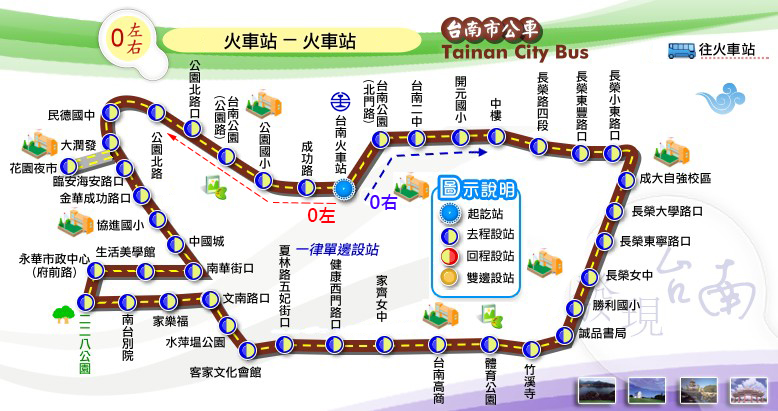
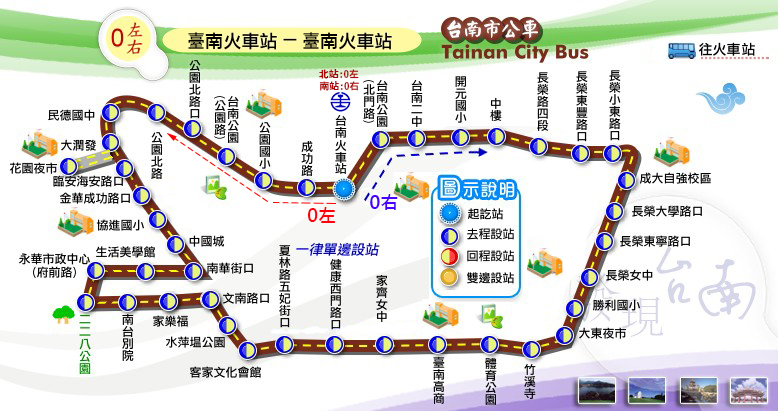
Update the stop name in No.0 and 5

diff --git a/route/fare_and_time/city_bus_0.js b/route/fare_and_time/city_bus_0.js
@@ -1,19 +1,19 @@
 // format = [time at the start stop] or
 // [time, other] or
 // [time, start_stop, end_stop, other]
-city_bus_0_main_stop_name = ["臺南<br />火車站","臺南公園<br />(公園路)","民德國中","花園夜市","永華市政<br />中心(府前路)","水萍塭<br />公園","體育公園","誠品書局","長榮、<br />大學路口","臺南<br />火車站"];
+city_bus_0_main_stop_name = ["臺南<br />火車站","臺南公園<br />(公園路)","民德國中","花園夜市","永華市政<br />中心(府前路)","水萍塭<br />公園","體育公園","大東夜市","長榮、<br />大學路口","臺南<br />火車站"];
 city_bus_0_interval_stop = [
 ["臺南火車站","成功路","公園國小","臺南公園(公園路)","公園北路口","公園北路","民德國中",
 "大潤發","花園夜市","臨安海安路口","金華成功路口","協進國小(金華路)","中國城(金華路)",
 "南華街口","生活美學館","永華市政中心(府前路)","二二八公園","南台別院","家樂福","文南路口",
 "水萍塭公園","客家文化會館","夏林路五妃街口","健康西門路口","家齊女中","台南高商","體育公園",
-"竹溪寺(健康路)","誠品書局","勝利國小","長榮女中","長榮東寧路口","長榮大學路口","成大自強校區",
+"竹溪寺(健康路)","大東夜市","勝利國小","長榮女中","長榮東寧路口","長榮大學路口","成大自強校區",
 "長榮小東路口","長榮東豐路口","長榮路四段","中樓","開元國小","臺南二中","臺南公園(北門路)","臺南火車站"]
 ];
 city_bus_0_stop_time_consume = [0,2,4,5,6,7,8,9,10,11,12,14,15,17,19,20,20,21,22,22,23,24,24,25,26,27,28,31,33,35,36,37,38,40,41,42,43,45,46,47,48,50]; // unreliable
 city_bus_0_main_stop_time_consume = [0, 5, 8, 10, 20, 23, 28, 33, 38, 50];
 //city_bus_0r_main_stop_time_consume = [0, 5, 8, 10, 30, 33, 38, 43, 48, 60];
-city_bus_0_important_stop = [0, 3, 9]; // 臺南火車站, 花園夜市, 臺南火車站
+city_bus_0_important_stop = [0, 3, 7, 9]; // 臺南火車站, 花園夜市, 大東夜市, 臺南火車站
 city_bus_0_time_go = [["06:00",['W',3]],["06:30",[3]],["06:50",[3]],["07:15",[3]],["07:40",[3]],["08:10",[3]],["08:50",[3]],
 ["09:30",[3]],["10:10",[3]],["10:50",[3]],["11:30",[3]],["12:10",[3]],["12:40",[3]],["13:10",[3]],["13:40",[3]],
 ["14:10",[3]],["14:50",[3]],["15:20",[3]],["16:00",[3]],["16:30",[3]],["17:10"],["17:40"],["18:20"],["19:00"],

diff --git a/city_bus/city_bus_5.html b/city_bus/city_bus_5.html
@@ -28,20 +28,20 @@
 	</div>\
 	<div class="content">\
 		<h1><font color="#0000AA">平日班表</font></h>\
-		<h2>鹽行-&gt;市立醫院/機場/大甲里</h2>');
+		<h2><font color="purple">鹽行-&gt;市立醫院/機場/大甲里</font></h2>');
 	create_time_schedule(city_bus_5_main_stop_name, city_bus_5_main_stop_time_consume, city_bus_5_important_stop, city_bus_5_time_go, false);
 	document.write('<p>　</p>\
-		<h2>市立醫院/機場/大甲里-&gt;鹽行</h2>');
+		<h2><font color="purple">市立醫院/機場/大甲里-&gt;鹽行</font></h2>');
 	create_time_schedule(city_bus_5_main_stop_name, city_bus_5_main_stop_time_consume, city_bus_5_important_stop, city_bus_5_time_return, true);
 	document.write('<p>　</p>\
 		<h1><font color="#CC0000">假日班表</font></h1>\
-		<h2>鹽行-&gt;市立醫院/機場/大甲里</h2>');
+		<h2><font color="purple">鹽行-&gt;市立醫院/機場/大甲里</font></h2>');
 	create_time_schedule(city_bus_5_main_stop_name, city_bus_5_main_stop_time_consume, city_bus_5_important_stop, city_bus_5_holiday_time_go, false);
 	document.write('<p>　</p>\
-		<h2>市立醫院/機場/大甲里-&gt;鹽行</h2>');
+		<h2><font color="purple">市立醫院/機場/大甲里-&gt;鹽行</font></h2>');
 	create_time_schedule(city_bus_5_main_stop_name, city_bus_5_main_stop_time_consume, city_bus_5_important_stop, city_bus_5_holiday_time_return, true);
 	document.write(TimeScheduleMSG +
-		'<h3><font color="#000055">「生」表示經生產路班次</font></h3>\
+		'<h3><font color="#000055">「<font color="red">生</font>」表示經生產路班次</font></h3>\
 	</div>\
 </div>')
 	block_transfer(transfer_yanhang + transfer_chimei_hospital + transfer_tainan_railway_station);

diff --git a/route/fare_and_time/city_bus_5.js b/route/fare_and_time/city_bus_5.js
@@ -13,7 +13,7 @@ city_bus_5_stop_time_consume = [0,1,2,3,4,4,5,6,7,8,10,11,13,15,16,17,18,20,21,2
 // format = [time at the start stop] or
 // [time, other] or
 // [time, start_stop, end_stop, other]
-city_bus_5_main_stop_name = ["鹽行","南台<br />科大","奇美<br />醫院","崑山<br />中學","臺南<br />火車站","赤崁樓","新光三越<br />新天地","大林<br />新城","市立<br />醫院","臺南<br />航空站","嘉南<br />科大","大甲里"];
+city_bus_5_main_stop_name = ["鹽行","南臺<br />科大","奇美<br />醫院","崑山<br />中學","臺南<br />火車站","赤崁樓","新光三越<br />新天地","大林<br />新城","市立<br />醫院","臺南<br />航空站","嘉南<br />藥理大學","大甲里"];
 city_bus_5_main_stop_time_consume = [0, 5, 8, 15, 25, 30, 40, 50, 60, 57, 60, 65];
 city_bus_5_important_stop = [0, 2, 4, 8]; // 鹽行, 奇美醫院, 臺南火車站, 市立醫院
 city_bus_5_time_go = [["06:00",0,8,['L']],["6:10",0,9,[8]],["6:25",0,8,[[4,5]]],["6:40",[8,[4,5,9,5]]],["6:55",0,8,['生',[4,5]]],

diff --git a/tools/route_infor.js b/tools/route_infor.js
@@ -67,7 +67,7 @@ orange_5_route = "善化轉運站 ─ 官田 ─ 六甲";
 orange_10_route = "真理大學 ─ 隆田火車站 ─ 南藝大";
 orange_11_route = "下營 ─ 麻豆 ─ 西港 ─ 臺南公園";
 orange_12_route = "麻豆 ─ 善化 ─ 新市 ─ 臺南公園";
-orange_20_route = "大內公所 ─ 環湖 ─ 玉井";
+orange_20_route = "大內 ─ 環湖 ─ 玉井";
 
 yellow_route = "白河 ─ 新營 ─ 麻豆";
 yellow_1_route = "新營 ─ 柳營 ─ 六甲";
@@ -94,7 +94,7 @@ city_bus_0_route = "臺南火車站 ─ 臺南火車站";
 city_bus_1_route = "臺南火車站 ─ 茄萣 ─ 興達港";
 city_bus_2_route = "崑山科大 ─ 安平";
 city_bus_3_route = "海東國小 ─ 竹篙厝";
-city_bus_5_route = "鹽行 ─ 市立醫院、嘉南科大";
+city_bus_5_route = "鹽行 ─ 市立醫院、嘉南藥大";
 city_bus_6_route = "裕聖里 ─ 新興國宅";
 city_bus_7_route = "臺南火車站 ─ 康寧大學";
 city_bus_9_route = "臺南火車站 ─ 公親里、溪埔寮";
